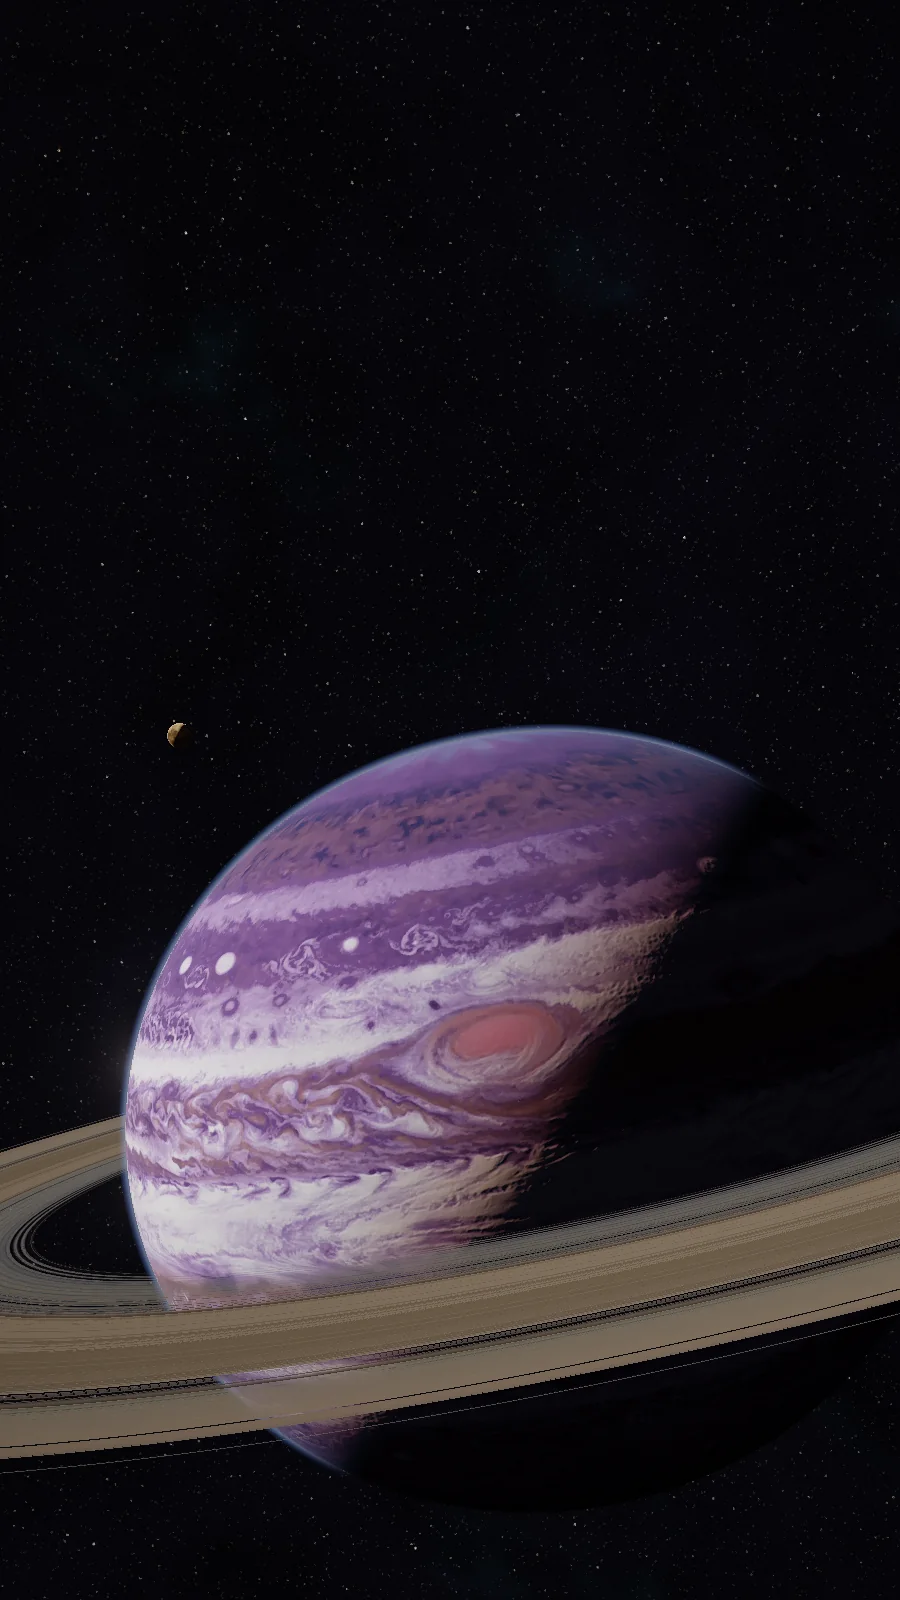
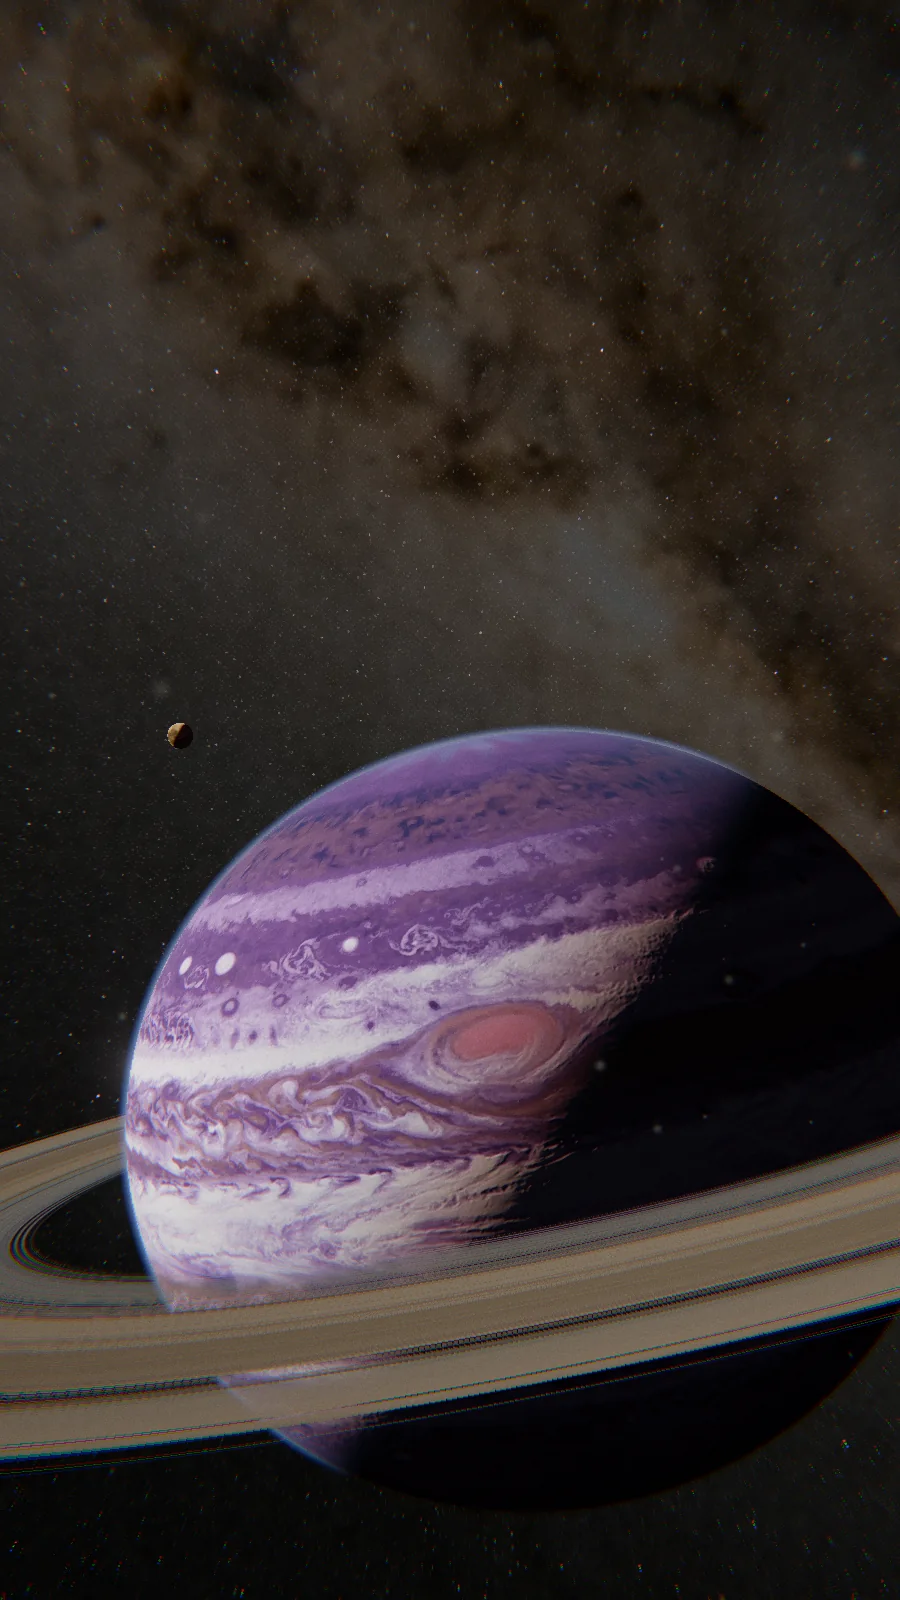
The install: the Milky Way behind, dust in the light, and a camera that is held
The sky is Gaia's Milky Way (NASA's Deep Star Maps 2020: NASA/Goddard
SVS; Gaia DR2: ESA/Gaia/DPAC), brought down from HDR by tools/galaxy.py,
its core off the top left so the band and its dust lanes cross the sky
faintly, as an exposure for a sunlit planet would show it; the drawn
galaxy stays as the fallback. Motes of ice and dust drift near the
planet, thickest by the rings, sunlit and shadowed by it: soft and out of
focus near the lens, streaked by the camera's motion over a 60th of a
second. The camera wanders a little in the hand, more while it moves
fast; the frame blurs out from where it is going as it rushes in; the
lens fringes colour towards its edges, and the grain is film's, most in
the mid-tones. The credit names every source.

Claude-Session: https://claude.ai/code/session_012Fnd9WmNXpFM67BjHTitR7

diff --git a/assets/js/world.js b/assets/js/world.js
@@ -95,7 +95,8 @@ uniform vec3 uCam, uFwd, uRight, uUp, uSun;
 uniform mat3 uSpin, uTilt, uSkyM;
 uniform vec4 uMoon, uMoon2;
 uniform sampler2D uAlb, uSky, uRing, uMoonT;
-uniform float uHasMoon;
+uniform float uHasMoon, uGalaxy, uGalK, uDust, uFocusD;
+uniform vec3 uVel;
 uniform vec2 uAlbSize;
 ${NOISE}
 const float FLAT=0.935;                 /* polar radius over equatorial: the spin's bulge */
@@ -146,7 +147,9 @@ vec3 sky(vec3 rd){
   vec2 uv2=vec2(fract(uv.x+0.5),uv.y), dx=dFdx(uv), dy=dFdy(uv), dx2=dFdx(uv2), dy2=dFdy(uv2);
   if(abs(dx2.x)<abs(dx.x))dx.x=dx2.x; if(abs(dy2.x)<abs(dy.x))dy.x=dy2.x;
   vec4 s=textureGrad(uSky,uv,dx,dy);
-  vec3 c=s.rgb*0.5+stars(d,s.a)*0.09;
+  /* Gaia's Milky Way, its stars denser where the band is; or the drawn galaxy if it could not be had */
+  float dens=uGalaxy>0.5?clamp(dot(s.rgb,vec3(0.3,0.5,0.2))*2.5+0.12,0.0,1.0):s.a;
+  vec3 c=s.rgb*(uGalaxy>0.5?uGalK:0.5)+stars(d,dens)*0.09;
   float a=acos(clamp(dot(rd,uSun),-1.0,1.0));
   c+=vec3(1.0,0.97,0.9)*4000.0*smoothstep(0.0052,0.0046,a);
   return c;
@@ -256,6 +259,50 @@ vec3 cloudDeck(vec3 P,vec3 rd){
   return c;
 }
 
+/* THE DUST: ice and dust drifting near the planet, thickest by the rings. Walked cell by cell along the
+   ray; each mote is a point of sunlight, soft and large when near the lens (out of focus), streaked by
+   the camera's own motion during the exposure */
+vec3 dust(vec3 ro,vec3 rd,float tMax){
+  if(uDust<=0.0)return vec3(0.0);
+  const float CS=0.07;
+  vec3 p=ro/CS, cell=floor(p), st=sign(rd), tD=abs(1.0/rd);
+  vec3 tN=(cell+max(st,0.0)-p)/rd;
+  vec3 acc=vec3(0.0);
+  float ph=dot(rd,uSun), g=0.65, hg=(1.0-g*g)/pow(1.0+g*g-2.0*g*ph,1.5);
+  for(int i=0;i<30;i++){
+    float t0=min(tN.x,min(tN.y,tN.z))*CS;
+    float h=hash13(cell);
+    if(h<0.06){
+      vec3 o=vec3(hash13(cell+7.1),hash13(cell+3.3),hash13(cell+9.9));
+      vec3 pp=(cell+0.2+0.6*o)*CS+(o-0.5)*uTime*0.0025;
+      float r=length(pp), y=abs((uTilt*pp).y);
+      float w=smoothstep(14.0,7.0,r)*(0.35+0.65*exp(-y/0.7))*step(1.02,r);
+      if(w>0.0){
+        /* the mote's path across the lens during the exposure: the ray's closest approach to it */
+        vec3 a=pp, b=pp-uVel;
+        vec3 ab=b-a; float L2=max(dot(ab,ab),1e-9);
+        vec3 ao=ro-a; float bd=dot(ab,rd), c1=dot(ao,rd), c2=dot(ab,ao);
+        float den=L2-bd*bd;
+        float sseg=clamp((c2-bd*c1)/max(den,1e-9),0.0,1.0);
+        vec3 qq=a+ab*sseg; float z=dot(qq-ro,rd);
+        if(z>0.015&&z<tMax){
+          float dpx=length(qq-ro-rd*z)/z*uFocal;
+          float coc=clamp(18.0*abs(1.0/z-1.0/uFocusD)/(1.0/0.12),0.8,0.42*CS/z*uFocal);
+          float streak=max(1.0,length(uVel)/z*uFocal);
+          /* a near mote gathers more light into the lens, spread over its blur */
+          float e=exp(-dpx*dpx/(coc*coc))/(coc*coc+streak*0.6)*min(0.25/(z*z),60.0);
+          float lit=smoothstep(0.985,1.03,length(qq-uSun*min(dot(qq,uSun),0.0)));
+          acc+=e*w*lit*(0.6+0.4*hash13(cell+5.0));
+        }
+      }
+    }
+    if(t0>tMax)break;
+    if(tN.x<tN.y){ if(tN.x<tN.z){cell.x+=st.x;tN.x+=tD.x;}else{cell.z+=st.z;tN.z+=tD.z;} }
+    else{ if(tN.y<tN.z){cell.y+=st.y;tN.y+=tD.y;}else{cell.z+=st.z;tN.z+=tD.z;} }
+  }
+  return acc*SUNI*vec3(1.0,0.95,0.9)*(0.35+hg*0.25)*0.35*uDust;
+}
+
 void main(){
   vec2 q=(gl_FragCoord.xy-0.5*uRes-uShift)/uFocal;
   vec3 ro=uCam, rd=normalize(uFwd+uRight*q.x+uUp*q.y);
@@ -283,6 +330,7 @@ void main(){
     col=col*exp(-BR*od*0.25)+SUNI*s*BR*(0.0597*(1.0+mu*mu)+hg*0.5)*vec3(0.85,0.82,1.0)*0.6;
   }
   if(ringOn&&(ta.x<=0.0||tr<ta.x)){col=col*(1.0-rc.a)+rc.rgb; alpha=alpha+(1.0-alpha)*rc.a;}
+  col+=dust(ro,rd,min(tOp,tr>0.0?tr:1e9));
   /* the light in the lens: a soft halo round the sun, and a thin streak */
   float sa=acos(clamp(dot(rd,uSun),-1.0,1.0));
   vec3 glare=vec3(1.0,0.86,0.68)*(1.2*exp(-sa/0.01)+0.12*exp(-sa/0.06)+0.025*exp(-sa/0.3));
@@ -321,7 +369,7 @@ void main(){
 /* THE FILM: the light and its bloom, tone-mapped (AgX), a breath of vignette and grain */
 const FILM = `#version 300 es
 precision highp float;
-uniform sampler2D uHdr, uBloom; uniform vec2 uRes; uniform float uTime, uExpo, uBloomK;
+uniform sampler2D uHdr, uBloom; uniform vec2 uRes, uBlurC; uniform float uTime, uExpo, uBloomK, uBlur, uFringe, uGrain;
 out vec4 o;
 float hash13(vec3 p){p=fract(p*0.1031);p+=dot(p,p.zyx+31.32);return fract((p.x+p.y)*p.z);}
 vec3 agxCurve(vec3 x){vec3 x2=x*x, x4=x2*x2; return 15.5*x4*x2-40.14*x4*x+31.96*x4-6.868*x2*x+0.4298*x2+0.1191*x-0.00232;}
@@ -331,9 +379,21 @@ vec3 agx(vec3 c){
   c=I*c; c=clamp((log2(max(c,1e-10))+12.47393)/16.5,0.0,1.0); c=agxCurve(c); c=O*c;
   return clamp(pow(max(c,0.0),vec3(2.2)),0.0,1.0);
 }
+/* the lens's own colour fringing, stronger out to the edges; and the dolly's blur, out from where the camera is going */
+vec3 lens(vec2 uv){
+  vec2 r=uv-0.5; float f=uFringe*dot(r,r);
+  vec3 c=vec3(texture(uHdr,uv+r*f).r,texture(uHdr,uv).g,texture(uHdr,uv-r*f).b);
+  if(uBlur>0.5){
+    vec2 dir=(uv-uBlurC/uRes); vec2 stp=dir*(uBlur/max(length(dir*uRes),1.0))/7.0;
+    vec3 acc=c; for(int i=1;i<8;i++){ vec2 u2=uv-stp*float(i); acc+=vec3(texture(uHdr,u2+r*f).r,texture(uHdr,u2).g,texture(uHdr,u2-r*f).b); }
+    c=acc/8.0;
+  }
+  return c;
+}
 void main(){
   vec2 uv=gl_FragCoord.xy/uRes;
   vec4 h=texture(uHdr,uv);
+  h.rgb=lens(uv);
   /* sharpening, contrast-adaptive: lifts fine detail, never past its neighbours, so no halos */
   vec2 px=1.0/uRes;
   vec3 n=texture(uHdr,uv+vec2(0,px.y)).rgb, sd=texture(uHdr,uv-vec2(0,px.y)).rgb, e=texture(uHdr,uv+vec2(px.x,0)).rgb, w=texture(uHdr,uv-vec2(px.x,0)).rgb;
@@ -347,7 +407,11 @@ void main(){
   /* a touch more colour than AgX's neutral: slide film rather than negative */
   float l=dot(c,vec3(0.2126,0.7152,0.0722)); c=max(mix(vec3(l),c,1.2),0.0);
   c=pow(c,vec3(1.0/2.2));
-  c+=(hash13(vec3(gl_FragCoord.xy,uTime*60.0))-0.5)*(2.5/255.0);
+  /* grain, as film has it: most in the mid-tones, little in the blacks and the highlights */
+  float lum=dot(c,vec3(0.2126,0.7152,0.0722));
+  float gr=(hash13(vec3(gl_FragCoord.xy,floor(uTime*24.0)))+hash13(vec3(gl_FragCoord.yx*1.7,floor(uTime*24.0)+3.0))-1.0);
+  c+=gr*uGrain*(0.25+3.0*lum*(1.0-lum));
+  c+=(hash13(vec3(gl_FragCoord.xy,uTime*60.0))-0.5)*(1.5/255.0);
   float a=max(h.a,clamp(max(c.r,max(c.g,c.b)),0.0,1.0)*(1.0-h.a));
   o=vec4(c,a);
 }`;
@@ -393,6 +457,7 @@ export function createWorld(canvas, opts = {}) {
   const MAP = opts.map ?? new URL(small ? "../img/install/planet-2k.webp" : "../img/install/planet.webp", import.meta.url).href;
   const RINGS = opts.rings ?? new URL("../img/install/rings.png", import.meta.url).href;
   const MOON = opts.moon ?? new URL("../img/install/moon.webp", import.meta.url).href;
+  const GALAXY = opts.galaxy ?? new URL(small ? "../img/install/galaxy-2k.webp" : "../img/install/galaxy.webp", import.meta.url).href;
   const KW = opts.sky ?? (small ? 2048 : 4096), KH = KW / 2;
 
   const compile = (type, src) => {
@@ -477,6 +542,11 @@ export function createWorld(canvas, opts = {}) {
     .then((b) => createImageBitmap(b, { colorSpaceConversion: "none", premultiplyAlpha: "none" }))
     .then((img) => { moonT = tex(img.width, img.height, gl.SRGB8_ALPHA8, gl.RGBA, gl.UNSIGNED_BYTE, img); mip(moonT); img.close?.(); },
       (e) => console.warn("orbit: the moon is drawn, not photographed", e));
+  let galT = null;
+  const loadGalaxy = fetch(GALAXY).then((r) => { if (!r.ok) throw new Error(`${GALAXY}: ${r.status}`); return r.blob(); })
+    .then((b) => createImageBitmap(b, { colorSpaceConversion: "none", premultiplyAlpha: "none" }))
+    .then((img) => { galT = tex(img.width, img.height, gl.SRGB8_ALPHA8, gl.RGBA, gl.UNSIGNED_BYTE, img); mip(galT); img.close?.(); },
+      (e) => console.warn("orbit: the galaxy is drawn, not Gaia's", e));
   const jobs = [];
   const STRIPS = 4;
   for (let i = 0; i < STRIPS; i++) jobs.push(() => pass(P.sky, skyF, KW, KH, (u) => gl.uniform2f(u.uSize, KW, KH), [0, (KH / STRIPS) * i, KW, KH / STRIPS]));
@@ -492,8 +562,8 @@ export function createWorld(canvas, opts = {}) {
   /* ready when the map is in and the galaxy is baked; resolves false if the map cannot be had */
   function bake() {
     if (!baking) baking = new Promise((res) => {
-      const step = () => { bakeSome(1); if (!skyDone) requestAnimationFrame(step); else Promise.all([loadMap, loadRings, loadMoon]).then(() => { baked = true; res(true); }, (e) => { console.warn("orbit: no map", e); res(false); }); };
-      requestAnimationFrame(step);
+      const step = () => { if (galT) skyDone = true; else bakeSome(1); if (!skyDone) requestAnimationFrame(step); else Promise.all([loadMap, loadRings, loadMoon]).then(() => { baked = true; res(true); }, (e) => { console.warn("orbit: no map", e); res(false); }); };
+      loadGalaxy.then(() => requestAnimationFrame(step));
     });
     return baking;
   }
@@ -524,8 +594,9 @@ export function createWorld(canvas, opts = {}) {
       gl.uniform1f(u.uFocal, v.focal); gl.uniform1f(u.uTime, v.time % 1000); gl.uniform1f(u.uBg, v.bg); gl.uniform1f(u.uSunVis, v.sunVis);
       gl.uniform3fv(u.uCam, v.cam); gl.uniform3fv(u.uFwd, v.fwd); gl.uniform3fv(u.uRight, v.right); gl.uniform3fv(u.uUp, v.up); gl.uniform3fv(u.uSun, v.sun);
       gl.uniformMatrix3fv(u.uSpin, false, m3(v.spin)); gl.uniformMatrix3fv(u.uTilt, false, m3(v.tilt)); gl.uniformMatrix3fv(u.uSkyM, false, m3(v.sky));
-      gl.uniform4fv(u.uMoon, v.moon); gl.uniform4fv(u.uMoon2, v.moon2 || [0, 0, 0, 0]); gl.uniform2f(u.uAlbSize, SW, SH);
-      bind(0, albT, u.uAlb); bind(1, skyT, u.uSky); bind(2, ringT, u.uRing); bind(3, moonT || ringT, u.uMoonT); gl.uniform1f(u.uHasMoon, moonT ? 1 : 0);
+      gl.uniform4fv(u.uMoon, v.moon); gl.uniform4fv(u.uMoon2, v.moon2 || [0, 0, 0, 0]);
+      gl.uniform3fv(u.uVel, v.vel || [0, 0, 0]); gl.uniform1f(u.uDust, v.dust ?? 1); gl.uniform1f(u.uFocusD, v.focusD || 5); gl.uniform1f(u.uGalaxy, galT ? 1 : 0); gl.uniform1f(u.uGalK, v.galK ?? 0.35); gl.uniform2f(u.uAlbSize, SW, SH);
+      bind(0, albT, u.uAlb); bind(1, galT || skyT, u.uSky); bind(2, ringT, u.uRing); bind(3, moonT || ringT, u.uMoonT); gl.uniform1f(u.uHasMoon, moonT ? 1 : 0);
     });
     if (!hdr) return;
     let src = hdrT;
@@ -542,6 +613,7 @@ export function createWorld(canvas, opts = {}) {
     pass(P.film, null, W, H, (u) => {
       bind(0, hdrT.t, u.uHdr); bind(1, chain[0].t, u.uBloom);
       gl.uniform2f(u.uRes, W, H); gl.uniform1f(u.uTime, v.time % 1000); gl.uniform1f(u.uExpo, v.expo); gl.uniform1f(u.uBloomK, 0.2);
+      gl.uniform1f(u.uBlur, v.blur || 0); gl.uniform2fv(u.uBlurC, v.blurC || [W / 2, H / 2]); gl.uniform1f(u.uFringe, v.fringe ?? 0.012); gl.uniform1f(u.uGrain, v.grain ?? 0.028);
     });
   }
   return {

diff --git a/assets/js/install.js b/assets/js/install.js
@@ -50,7 +50,11 @@ const mv = (A, v) => [A[0] * v[0] + A[1] * v[1] + A[2] * v[2], A[3] * v[0] + A[4
    the planet sits at rest on the screen (its centre from the screen's centre,
    y up, and its radius, in screen heights; the moon's place likewise) */
 export const TUNE = {
-  sun: [-0.95, 0.28, -0.08], tiltZ: 0.38, tiltX: -0.12, sky: [1.2, 0.6],
+  sun: [-0.95, 0.28, -0.08], tiltZ: 0.38, tiltX: -0.12,
+  /* the Milky Way: where its core sits on the screen at rest, and a point its band runs through (fractions from the top left) */
+  sky: { core: [-0.35, -0.25], along: [0.6, 0.25] },
+  /* the film: how bright the Milky Way is, how much dust, the lens's colour fringing, the grain */
+  look: { galK: 0.05, dust: 1, fringe: 0.012, grain: 0.028 },
   rest: { az: 0.0, el: 0.3, roll: 0.18, d: 5.2 }, from: { az: -0.8, el: -0.23, roll: 0.3 },
   /* the moon the camera passes on the way in: when (k), how far off the path (planet radii, right and up), how big */
   fly: { k: 0.89, side: [-1.2, -0.8], r: 0.2 },
@@ -62,7 +66,7 @@ function world0() {
   SUN = norm(TUNE.sun);
   TILT = mm(rz(TUNE.tiltZ), rx(TUNE.tiltX));      /* planet frame → world */
   TO_TILT = tr(TILT);                              /* world → ring frame */
-  SKY = tr(mm(rz(TUNE.sky[0]), rx(TUNE.sky[1])));  /* world → galaxy frame */
+  SKY = tr(mm(rz(1.2), rx(0.6)));                   /* world → galaxy frame, until the screen is measured */
   REST = TUNE.rest; FROM = TUNE.from;
 }
 /* the hold while the camera finds the planet, the shot in, the moment the words come, the shot back out */
@@ -82,7 +86,7 @@ export function createInstall(pad, opts = {}) {
   /* the approach: u runs 0 → 1 going in, back to 0 going home */
   let u = 1, motion = null;
   const pointer = { x: 0, y: 0, sx: 0, sy: 0 };
-  let frames = [], lastAdjust = 0, tick = 0;
+  let frames = [], lastAdjust = 0, tick = 0, prev = null;
 
   function ensure() {
     if (world || failed) return world;
@@ -106,6 +110,10 @@ export function createInstall(pad, opts = {}) {
     const b = dot(v.cam, rd), c = dot(v.cam, v.cam) - lay.moonR * lay.moonR, h = Math.sqrt(Math.max(0, b * b - c));
     moonPos = [...add(v.cam, mul(rd, -b + h > 0 ? -b + h : 12)), 0.075];
     placeFly(null);
+    /* the galaxy turned so its core and its band fall where they are wanted on this screen at rest */
+    const at = (f) => { const px = f[0] * W - W / 2, py = H / 2 - f[1] * H; return norm(add(v.fwd, add(mul(v.right, (px - v.shift[0]) / lay.focal), mul(v.up, (py - v.shift[1]) / lay.focal)))); };
+    const core = at(TUNE.sky.core), n = norm(cross(core, at(TUNE.sky.along))), x = cross(n, core);
+    SKY = [...x, ...n, ...core];
     world?.resize(W, H, scale);
   }
   /* the moon passed on the way in: beside the path where the camera is at fly.k */
@@ -123,9 +131,12 @@ export function createInstall(pad, opts = {}) {
     const d0 = dot0 ? Math.sqrt((L.focal / Math.max(1.5, dot0.r)) ** 2 + 1) : d1 * 60;
     const dist = Math.exp(lerp(Math.log(d0), Math.log(d1), eD));
     const drift = reduced ? 0 : idle * 0.0018;
-    const az = lerp(FROM.az, REST.az, eT) + drift + (bare ? 0 : pointer.sx * 0.05 * k);
-    const el = lerp(FROM.el, REST.el, eE) + (bare ? 0 : -pointer.sy * 0.03 * k);
-    const roll = lerp(FROM.roll, REST.roll, eT);
+    /* the camera is held, not mounted: a slow, small wander, more of it while it is moving fast */
+    const hand = reduced || bare ? 0 : 0.0007 + 0.0035 * Math.sin(Math.PI * clamp(k)) ** 2;
+    const nz = (t, a, b, c) => Math.sin(t * 0.83 + a) * 0.6 + Math.sin(t * 2.17 + b) * 0.3 + Math.sin(t * 5.3 + c) * 0.1;
+    const az = lerp(FROM.az, REST.az, eT) + drift + (bare ? 0 : pointer.sx * 0.05 * k) + hand * nz(idle, 0.3, 1.7, 2.9);
+    const el = lerp(FROM.el, REST.el, eE) + (bare ? 0 : -pointer.sy * 0.03 * k) + hand * nz(idle, 2.1, 0.4, 5.2);
+    const roll = lerp(FROM.roll, REST.roll, eT) + hand * 1.6 * nz(idle, 4.4, 3.3, 0.8);
     const c = [Math.sin(az) * Math.cos(el), Math.sin(el), Math.cos(az) * Math.cos(el)];
     const cam = mul(c, dist), fwd = mul(c, -1);
     let right = norm(cross(fwd, [0, 1, 0])), up = cross(right, fwd);
@@ -150,11 +161,20 @@ export function createInstall(pad, opts = {}) {
     const tb = dot(v.cam, SUN), pd = Math.hypot(...add(v.cam, mul(SUN, -tb)));
     const sunVis = tb > 0 ? 1 : smooth(0.995, 1.06, pd);
     const spin = mm(ry(-(0.9 + idle * 0.004)), TO_TILT);
+    /* what the camera's motion does to the exposure: motes streak by its velocity over a 1/60 s shutter,
+       and while it rushes in, the frame blurs out from where it is going */
+    const dtS = prev ? Math.max(1 / 240, (now - prev.t) / 1000) : 1;
+    let vel = prev ? mul(add(v.cam, mul(prev.cam, -1)), 1 / dtS / 60) : [0, 0, 0];
+    const vl = Math.hypot(...vel); if (vl > 0.4) vel = mul(vel, 0.4 / vl);
+    const zoom = prev ? Math.abs(Math.log(v.dist) - Math.log(prev.dist)) / dtS : 0;
+    const blur = reduced ? 0 : Math.min(12, zoom * H * 0.012) * s;
+    prev = { t: now, cam: v.cam, dist: v.dist };
     w.draw({
       cam: v.cam, fwd: v.fwd, right: v.right, up: v.up,
       focal: lay.focal * s, shift: [v.shift[0] * s, v.shift[1] * s], sunPx: [sp[0] * s, sp[1] * s],
       sun: SUN, spin: tr(spin), tilt: tr(TO_TILT), sky: tr(SKY), moon: moonPos, moon2: k < 0.999 ? flyPos : [0, 0, 0, 0],
       time: now / 1000, bg: smooth(0.02, 0.26, k), sunVis, expo: lerp(0.72, 1.0, smooth(0.35, 0.95, k)),
+      vel, focusD: v.dist, blur, galK: TUNE.look.galK, dust: TUNE.look.dust, fringe: TUNE.look.fringe, grain: TUNE.look.grain, blurC: [(W / 2 + v.shift[0]) * s, (H / 2 + v.shift[1]) * s],
     });
   }
   /* keeping the frame rate: the drawing gets smaller when the frames come slow, and back when they don't */
@@ -246,10 +266,12 @@ export function createInstall(pad, opts = {}) {
       removeEventListener("resize", onResize); removeEventListener("pointermove", onPointer);
     },
     /* one frame at a point in the shot, for the posters (assets/img/install) and for review */
-    async still(k, idle = 0, dotAt = null) {
+    async still(k, idle = 0, dotAt = null, moving = false) {
       ensure(); if (!world) return false;
       size(); if (!(await world.bake())) return false;
       motion = dotAt ? { dot: dotAt } : null; u = k; clock = idle;
+      /* a frame of the shot in motion: the one before it, a 60th of a second earlier */
+      if (moving) { const pv = view(Math.max(0, k - 1 / 60 / APPROACH), idle, false, motion?.dot || null); prev = { t: performance.now() - 1000 / 60, cam: pv.cam, dist: pv.dist }; } else prev = null;
       draw(performance.now()); motion = null;
       return true;
     },

diff --git a/index.html b/index.html
@@ -317,7 +317,7 @@
       <p class="theline"><code data-copy="curl -fsSL https://raw.githubusercontent.com/tomlawesome/orbit/main/scripts/get-orbit.sh | bash" title="Copy"><span class="prompt">$</span>curl -fsSL https://raw.githubusercontent.com/tomlawesome/orbit/main/scripts/get-orbit.sh | bash</code><button class="copy" type="button" data-copy="curl -fsSL https://raw.githubusercontent.com/tomlawesome/orbit/main/scripts/get-orbit.sh | bash" aria-label="Copy the install command">copy</button></p>
       <p class="from">From an empty directory on a Linux host with Docker Compose v2 and <code>curl</code>.</p>
     </div>
-    <p class="credit">Clouds: Cassini's Jupiter, recoloured. Rings: Cassini's Saturn. NASA/JPL/Space Science Institute · Moon: NASA's Scientific Visualization Studio</p>
+    <p class="credit">Imagery: Cassini's Jupiter and Saturn's rings, NASA/JPL/Space Science Institute · the Moon and the Milky Way, NASA's Scientific Visualization Studio, with Gaia data from ESA/Gaia/DPAC</p>
     <p class="doorfoot by">A <a href="https://tomlawson.io">tomlawson.io</a> project</p>
   </div>
   <div class="pad docs" id="docspad" hidden>

diff --git a/tools/galaxy.py b/tools/galaxy.py
@@ -1,0 +1,41 @@
+#!/usr/bin/env python3
+"""
+The install's sky: the Milky Way as Gaia saw it — NASA's Deep Star Maps 2020
+(credit NASA/Goddard Space Flight Center Scientific Visualization Studio;
+Gaia DR2: ESA/Gaia/DPAC), in galactic coordinates, the band along the
+equator and the galactic centre in the middle.
+
+The HDR panorama is brought down to an sRGB texture: the faint even glow of
+unresolved stars taken off, so the sky away from the band is black, and the
+rest set so the core is bright without clipping. world.js turns it into
+place with its sky matrix and lays its own fine stars over it.
+
+  pip install numpy pillow OpenEXR
+  curl -O https://svs.gsfc.nasa.gov/vis/a000000/a004800/a004851/milkyway_2020_8k_gal.exr
+  python3 tools/galaxy.py milkyway_2020_8k_gal.exr [--out assets/img/install/galaxy.webp] [--w 4096]
+  (writes galaxy.webp and, half the size for phones, galaxy-2k.webp)
+"""
+import argparse
+import numpy as np
+import OpenEXR
+from PIL import Image
+
+ap = argparse.ArgumentParser()
+ap.add_argument("src")
+ap.add_argument("--out", default="assets/img/install/galaxy.webp")
+ap.add_argument("--w", type=int, default=4096)
+args = ap.parse_args()
+
+px = OpenEXR.File(args.src).channels()["RGB"].pixels.astype(np.float32)
+L = px.mean(axis=2)
+floor = np.percentile(L, 45)                 # the even glow of stars too faint to see one by one
+top = np.percentile(L, 99.85)
+v = np.clip((px - floor) / (top - floor), 0, None)
+v = v / (1 + v * 0.35)                       # a soft shoulder, so the core keeps its shape
+v = np.clip(v / (1 / 1.35), 0, 1)
+img = Image.fromarray((v ** (1 / 2.2) * 255 + 0.5).astype(np.uint8), "RGB")
+from PIL import ImageFilter
+img = img.resize((args.w, args.w // 2), Image.LANCZOS).filter(ImageFilter.GaussianBlur(0.9))   # the grain of faint stars, which world.js draws itself
+img.save(args.out, "WEBP", quality=80, method=6)
+img.resize((args.w // 2, args.w // 4), Image.LANCZOS).save(args.out.replace(".webp", "-2k.webp"), "WEBP", quality=80, method=6)
+print("wrote", args.out)

diff --git a/README.md b/README.md
@@ -27,6 +27,7 @@ GitHub Pages. Plain HTML, CSS and ES modules; no build step.
 | `assets/img/install/orbit*.webp` | The world, still: shown while it loads, and in its place where WebGL2 is not |
 | `assets/img/install/rings.png` | The rings: Cassini's natural-colour mosaic across Saturn's rings (PIA08389, NASA/JPL/Space Science Institute) read as a radial profile by `tools/rings.py` |
 | `assets/img/install/moon.webp` | The gold moon: NASA's CGI Moon Kit (LRO colour and LOLA elevation; NASA's Scientific Visualization Studio) graded to gold by `tools/moon.py` |
+| `assets/img/install/galaxy*.webp` | The Milky Way: NASA's Deep Star Maps 2020 (NASA/Goddard SVS; Gaia DR2: ESA/Gaia/DPAC), brought down from HDR by `tools/galaxy.py` |
 | `tools/gas-giant.py` | Writes the cloud deck: regrades a real planet's map (`--base`), or simulates one of its own — jets along irregular bands, storms, eddies |
 | `assets/img/launcher/` | The launcher's own screens, sized for the web; the importer refreshes them from the launcher's repository |
 | `assets/docs/` | The docs, imported: one JSON page per source and an index of every section, written by `tools/import-docs.mjs` |
